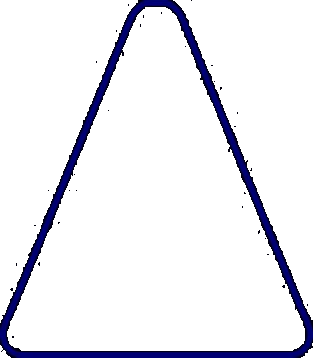
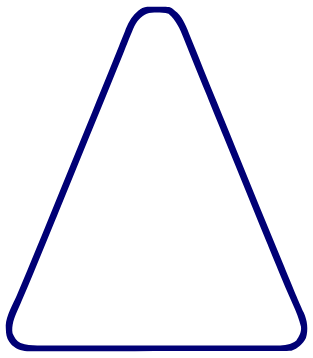
Fix clipped triangle SVGs and fuzzy PNGs
The traced triangle path extended slightly past its 313x358 canvas, so the
rounded corners were clipped in the downloadable SVGs. Add a padded viewBox
(same 313x358 output size, shape centred with ~6px margin) to the SVGs and
their byte-identical skill copies.

Regenerate the three PNGs from the fixed SVGs; the blue and orange PNGs were
noisy traces. The graphics page tiles now display the SVGs so they stay sharp.

Changed region(s): [[0.0, 0.0, 1.0, 1.0]]

diff --git a/graphics.html b/graphics.html
@@ -49,19 +49,19 @@
       <div class="grid grid-3">
         <div>
           <div class="graphic-card tri white">
-            <img src="assets/graphics/triangle-blue.png" alt="Blue triangle outline">
+            <img src="assets/graphics/triangle-blue.svg" alt="Blue triangle outline">
           </div>
           <div class="graphic-caption">Triangle · Blue — on light</div>
         </div>
         <div>
           <div class="graphic-card tri">
-            <img src="assets/graphics/triangle-orange.png" alt="Orange triangle outline">
+            <img src="assets/graphics/triangle-orange.svg" alt="Orange triangle outline">
           </div>
           <div class="graphic-caption">Triangle · Orange — on cream</div>
         </div>
         <div>
           <div class="graphic-card tri dark">
-            <img src="assets/graphics/triangle-white.png" alt="White triangle outline">
+            <img src="assets/graphics/triangle-white.svg" alt="White triangle outline">
           </div>
           <div class="graphic-caption">Triangle · White — on Plainsight Blue</div>
         </div>
